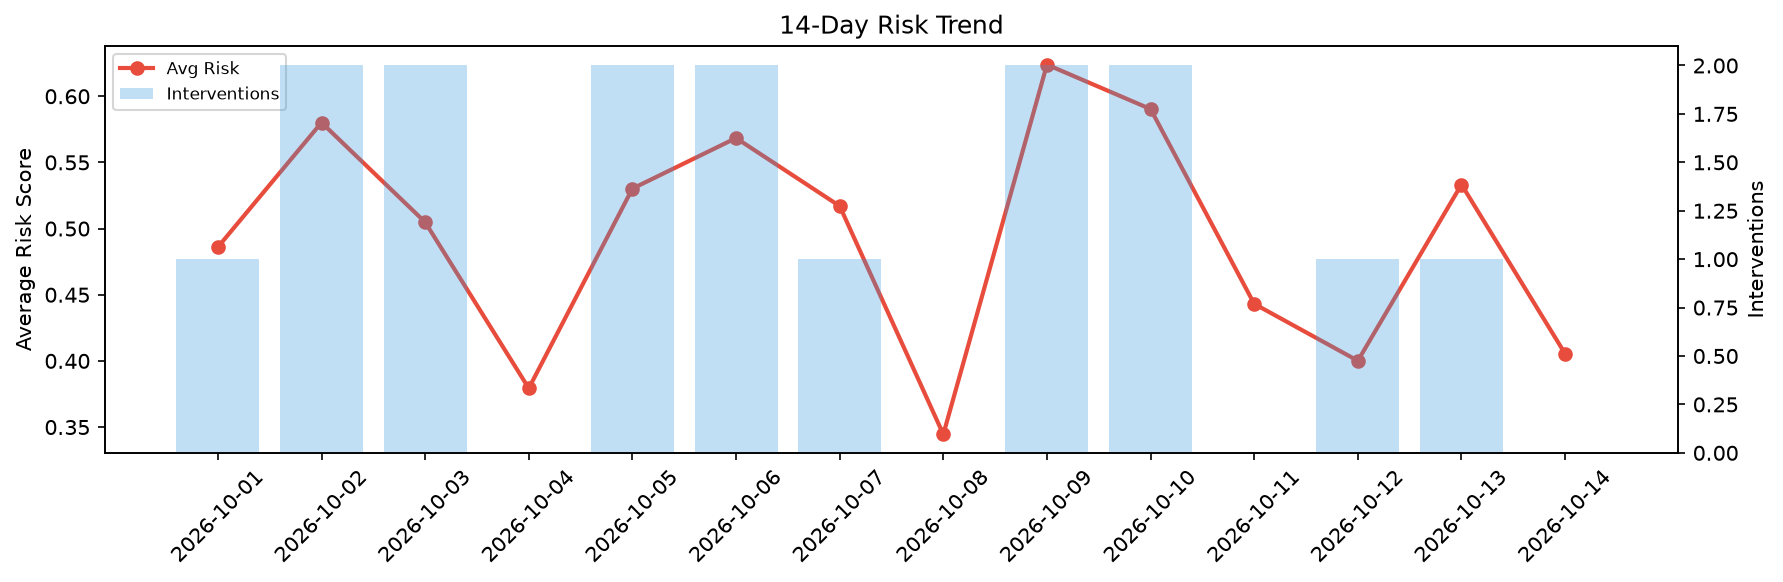
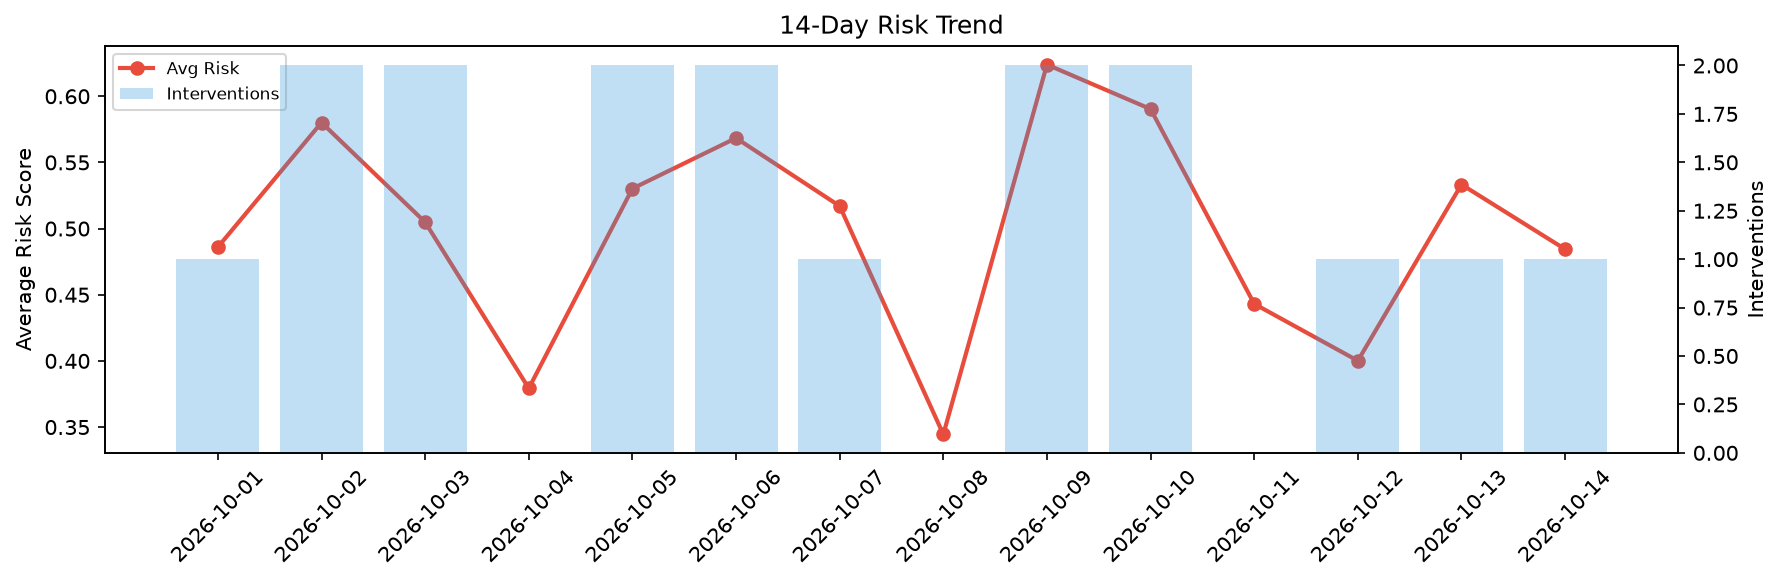
agent-improvement: daily cycle 2026-10-14T18:38

Changed region(s): [[0.802, 0.3093, 0.9254, 0.8041]]

diff --git a/logs/2026-10-14.md b/logs/2026-10-14.md
@@ -1,6 +1,6 @@
 # Agent Improvement Report — 2026-10-14
 
-**Cycle ID:** `d07ff7aa` | **Avg Risk:** 0.4054 | **Interventions:** 0/4
+**Cycle ID:** `c617589e` | **Avg Risk:** 0.4844 | **Interventions:** 1/4
 
 ![Dashboard](2026-10-14_dashboard.png)
 
@@ -10,18 +10,18 @@
 
 | Domain | Risk Score | Decision | Alerts |
 |--------|-----------|----------|--------|
-| code_review | 0.5482 | monitor | coverage |
-| incident_response | 0.1926 | monitor | none |
-| data_pipeline | 0.5907 | monitor | volume_anomaly |
-| deployment | 0.2901 | monitor | none |
+| code_review | 0.6761 | intervene | complexity, coverage |
+| incident_response | 0.2677 | monitor | none |
+| data_pipeline | 0.5451 | monitor | volume_anomaly |
+| deployment | 0.4486 | monitor | none |
 
 ## Delta vs Yesterday
 
 | Domain | Today | Yesterday | Change |
 |--------|-------|-----------|--------|
-| code_review | 0.5482 | 0.4041 | 📈 35.7% |
-| incident_response | 0.1926 | 0.4614 | 📉 -58.3% |
-| data_pipeline | 0.5907 | 0.7066 | 📉 -16.4% |
-| deployment | 0.2901 | 0.5609 | 📉 -48.3% |
+| code_review | 0.6761 | 0.4041 | 📈 67.3% |
+| incident_response | 0.2677 | 0.4614 | 📉 -42.0% |
+| data_pipeline | 0.5451 | 0.7066 | 📉 -22.9% |
+| deployment | 0.4486 | 0.5609 | 📉 -20.0% |
 
 **Refinement:** `{'adjustment': 'maintain', 'trend': 'improving', 'window': 4}`
